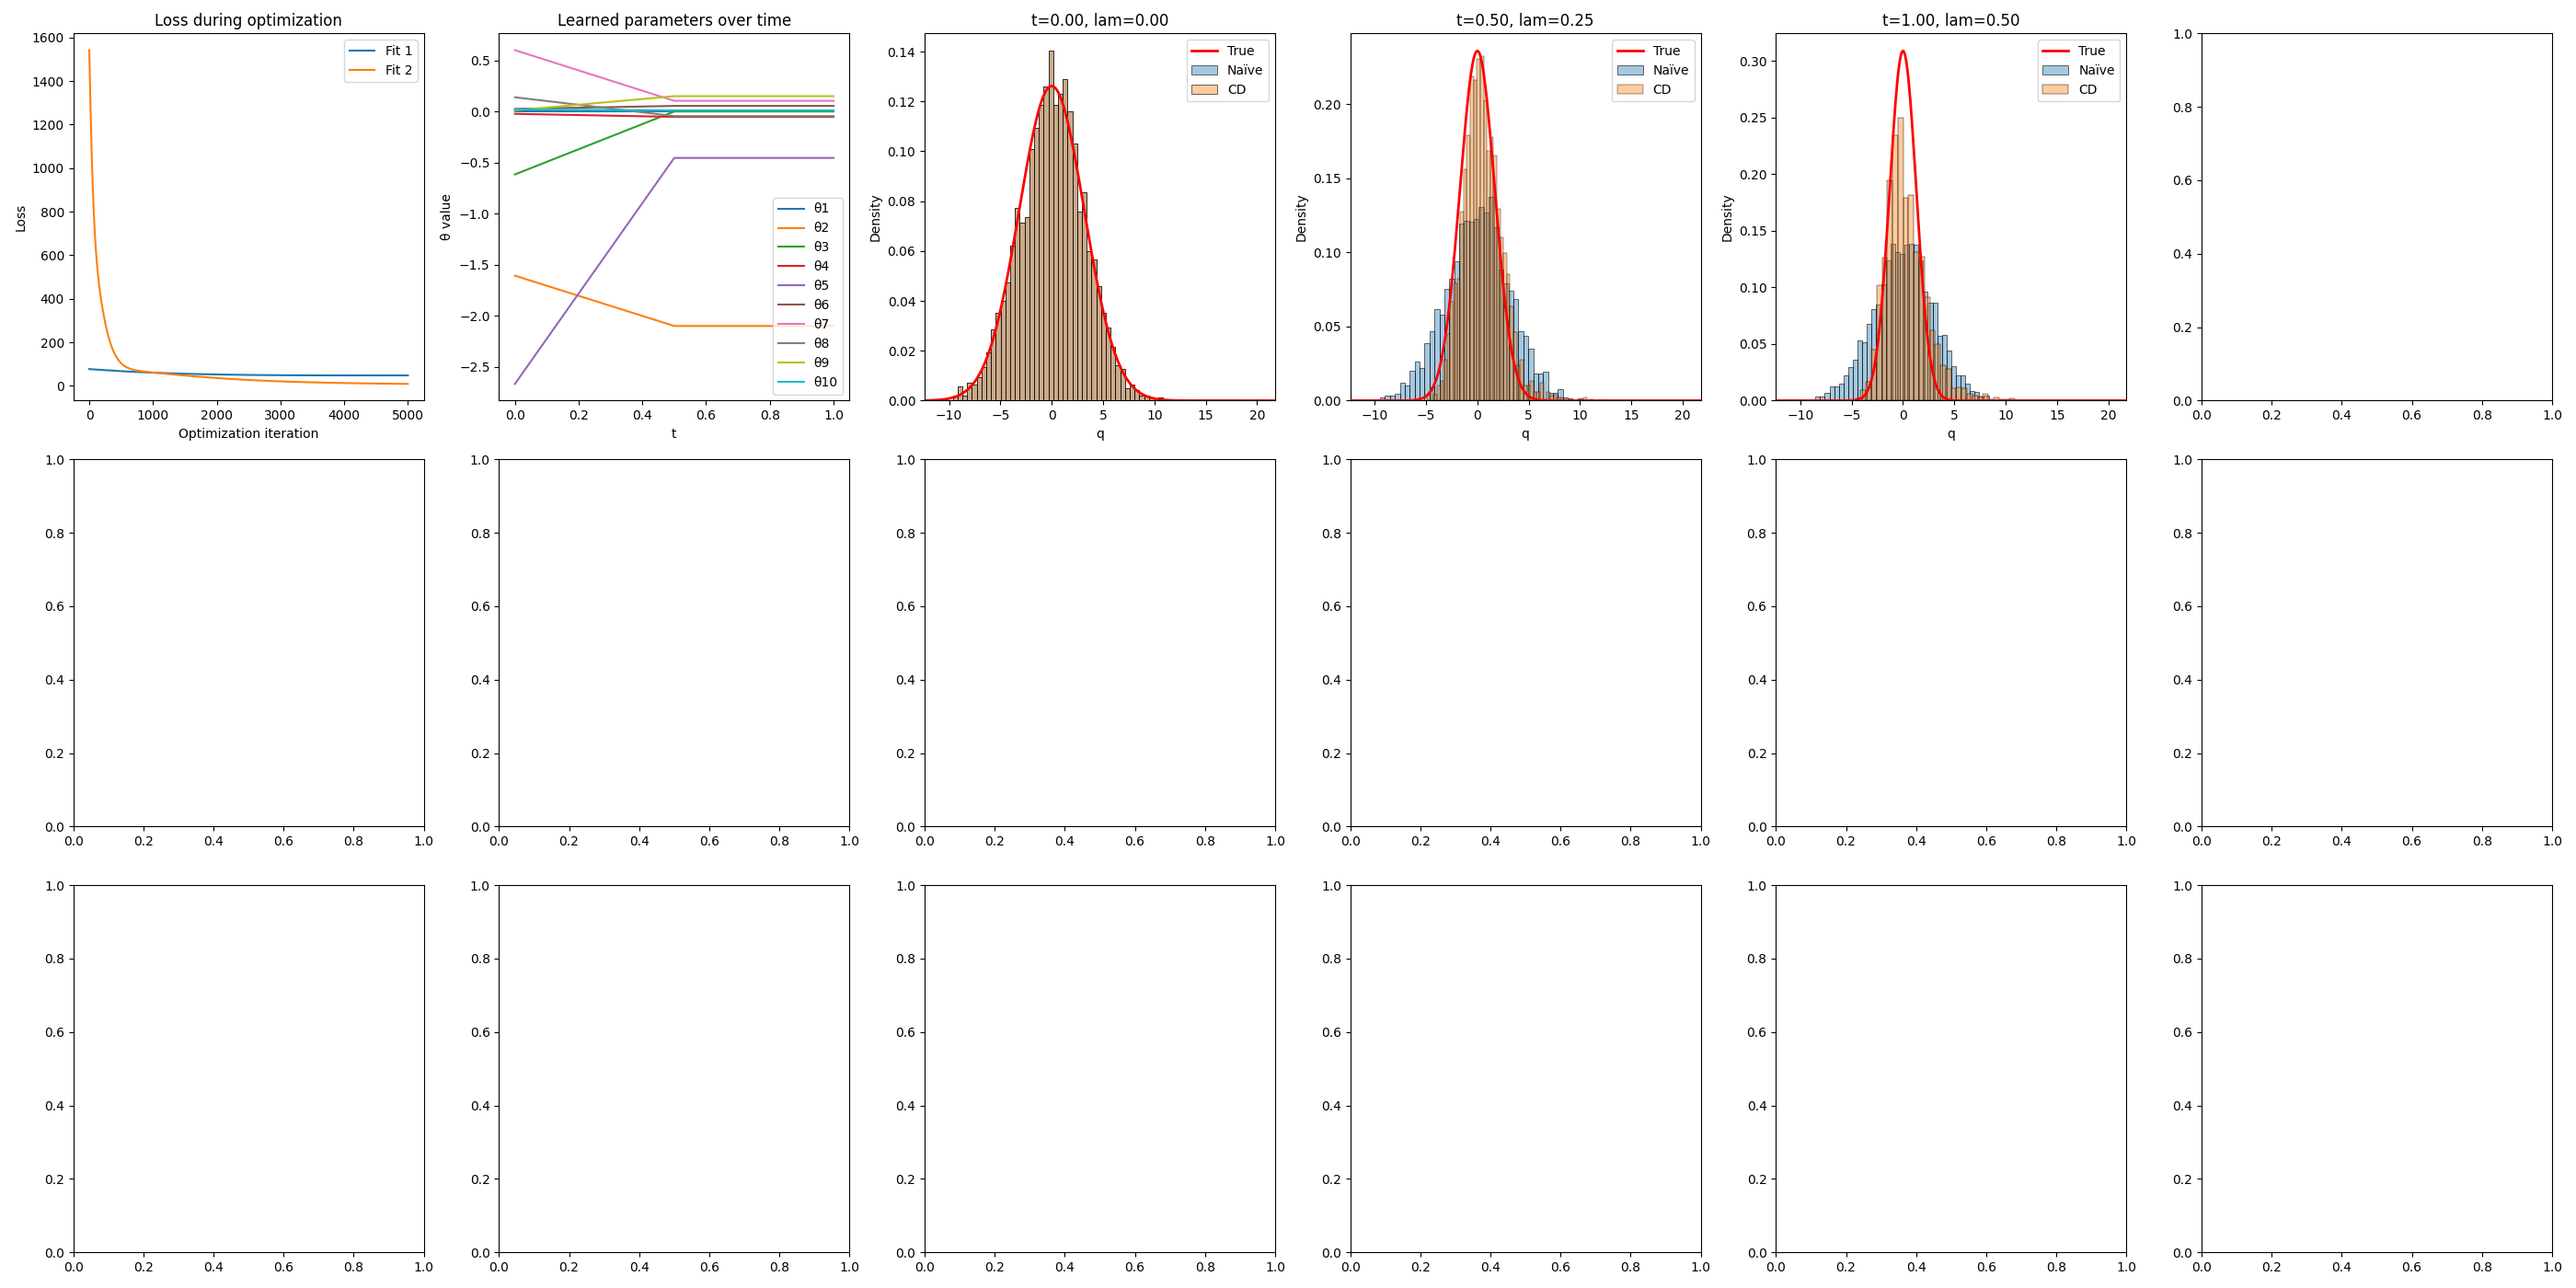
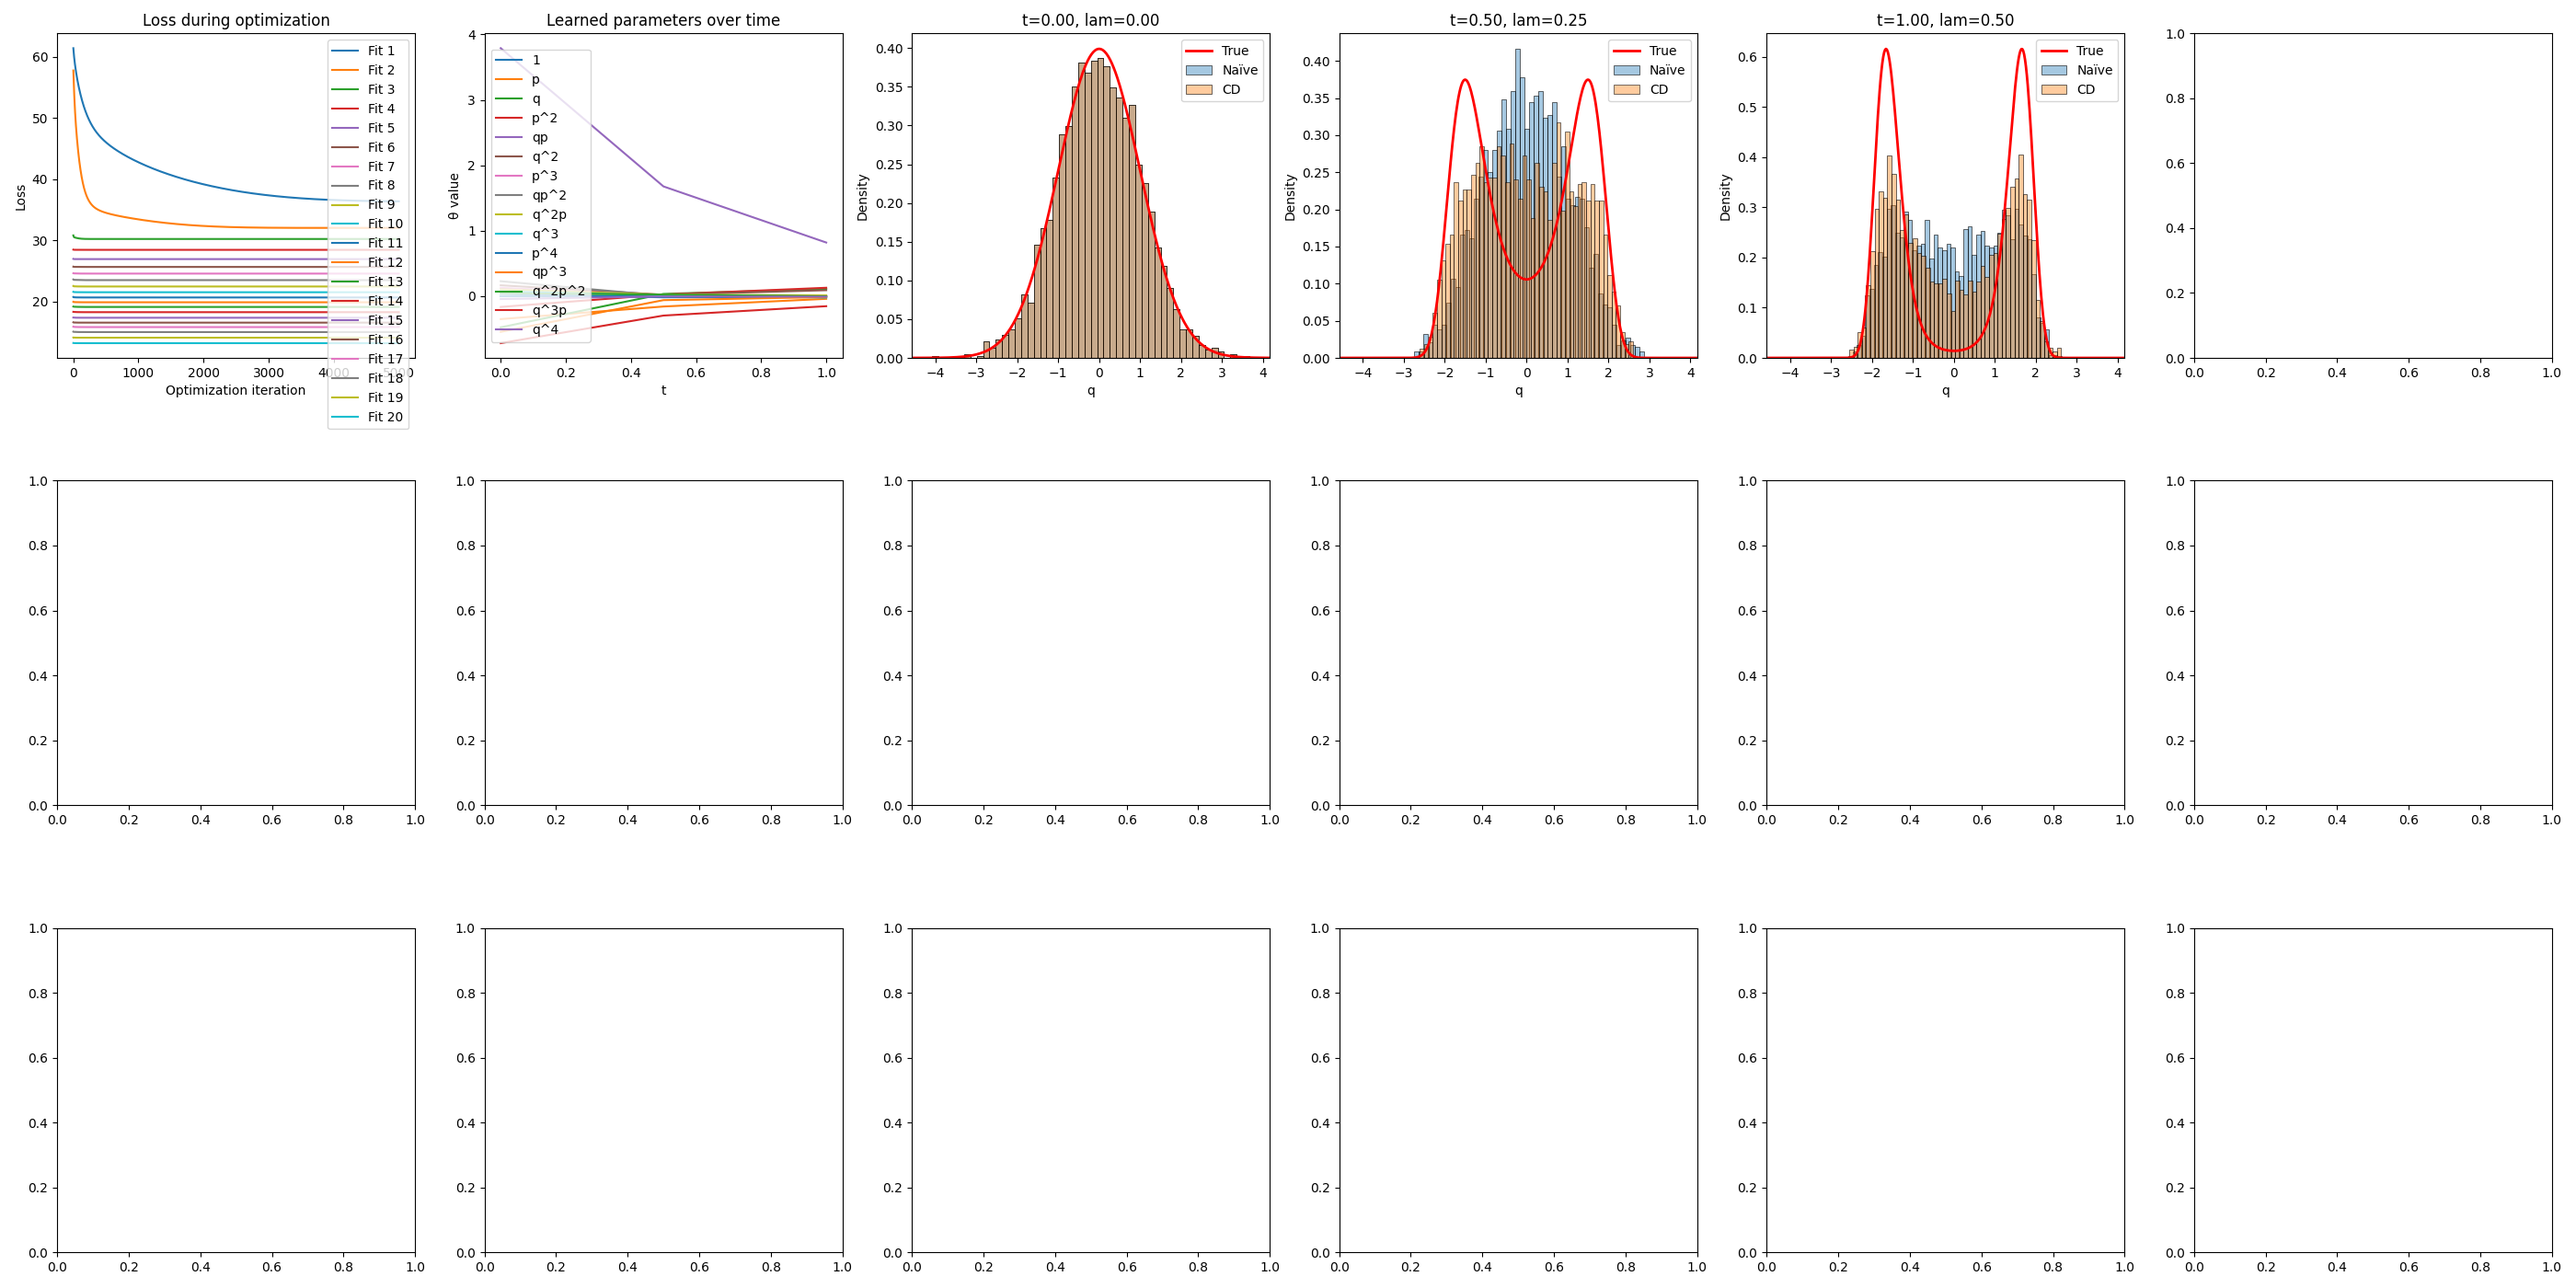
checkpoint: double well starting to work

diff --git a/counterdiabatic_hmc.py b/counterdiabatic_hmc.py
@@ -154,14 +154,14 @@ def run_simulation(M, N_steps, delta_t, eps, momentum_refresh_interval, make_T, 
 
 
         # Re-fit A every 10 steps
-        if (k % 10 == 0) and (k < N_steps):
+        if (k % 1 == 0) and (k < N_steps):
             samples = np.stack([np.array(q_cd), np.array(p_cd)], axis=1)
             theta, loss_history = fit_gauge_potential(lam_k, samples, init_params=theta,
                                         make_T=make_T, make_V=make_V,
                                         A_ansatz=A_ansatz,
                                         num_iters=5000, lr=1e-3)
         
-            if k % 10 == 0:
+            if k % 1 == 0:
                 loss_histories.append(loss_history)
         # Record histograms every 10 steps
         if k % 10 == 0:
@@ -277,8 +277,17 @@ def plot_results(theta_history, snapshots, loss_histories, delta_t, make_V, lam_
         axes1[1].set_title("Learned parameters over time")
         axes1[1].set_xlabel("t")
         axes1[1].set_ylabel("θ value")
+        
+        # Get term descriptions for legend labels
+        term_descriptions = ansatz.get_term_description()
+        term_labels = []
+        for desc in term_descriptions:
+            # Extract just the term part (e.g., "pq", "q²", etc.)
+            term_part = desc.split(": ")[1]
+            term_labels.append(term_part)
+        
         for i in range(param_history[0].shape[0]):
-            axes1[1].plot(param_times, [p[i] for p in param_history], label=f'θ{i+1}')
+            axes1[1].plot(param_times, [p[i] for p in param_history], label=term_labels[i])
         axes1[1].legend()
 
     num_hist_axes = 13  # Reduced to make room for parameter plot
@@ -356,7 +365,7 @@ def generate_polynomial_terms(max_degree):
     
     return terms
 
-max_degree = 3
+max_degree = 4
 
 class PolynomialAnsatz(A_ansatz):
     """Polynomial ansatz for the gauge potential."""
@@ -428,10 +437,10 @@ def main():
     def make_T(lam):
         return lambda p: 0.5 * (p ** 2) / m
     def make_V(lam):
-        # return lambda q: (1-lam)*0.5*(q**2) + lam*(q**2 - 3)**2
+        return lambda q: (1-lam)*0.5*(q**2) + lam*(q**2 - 3)**2
         # return lambda q: 0.5*((q-lam)**2 -1)**2
         # return lambda q: 0.5 * (q - lam) ** 2
-        return lambda q: 0.5 * (lam + 0.1) * (q ** 2)
+        # return lambda q: 0.5 * (lam + 0.1) * (q ** 2)
     
     # Initialize ansatz (either neural network or polynomial)
     key = jax.random.PRNGKey(0)
